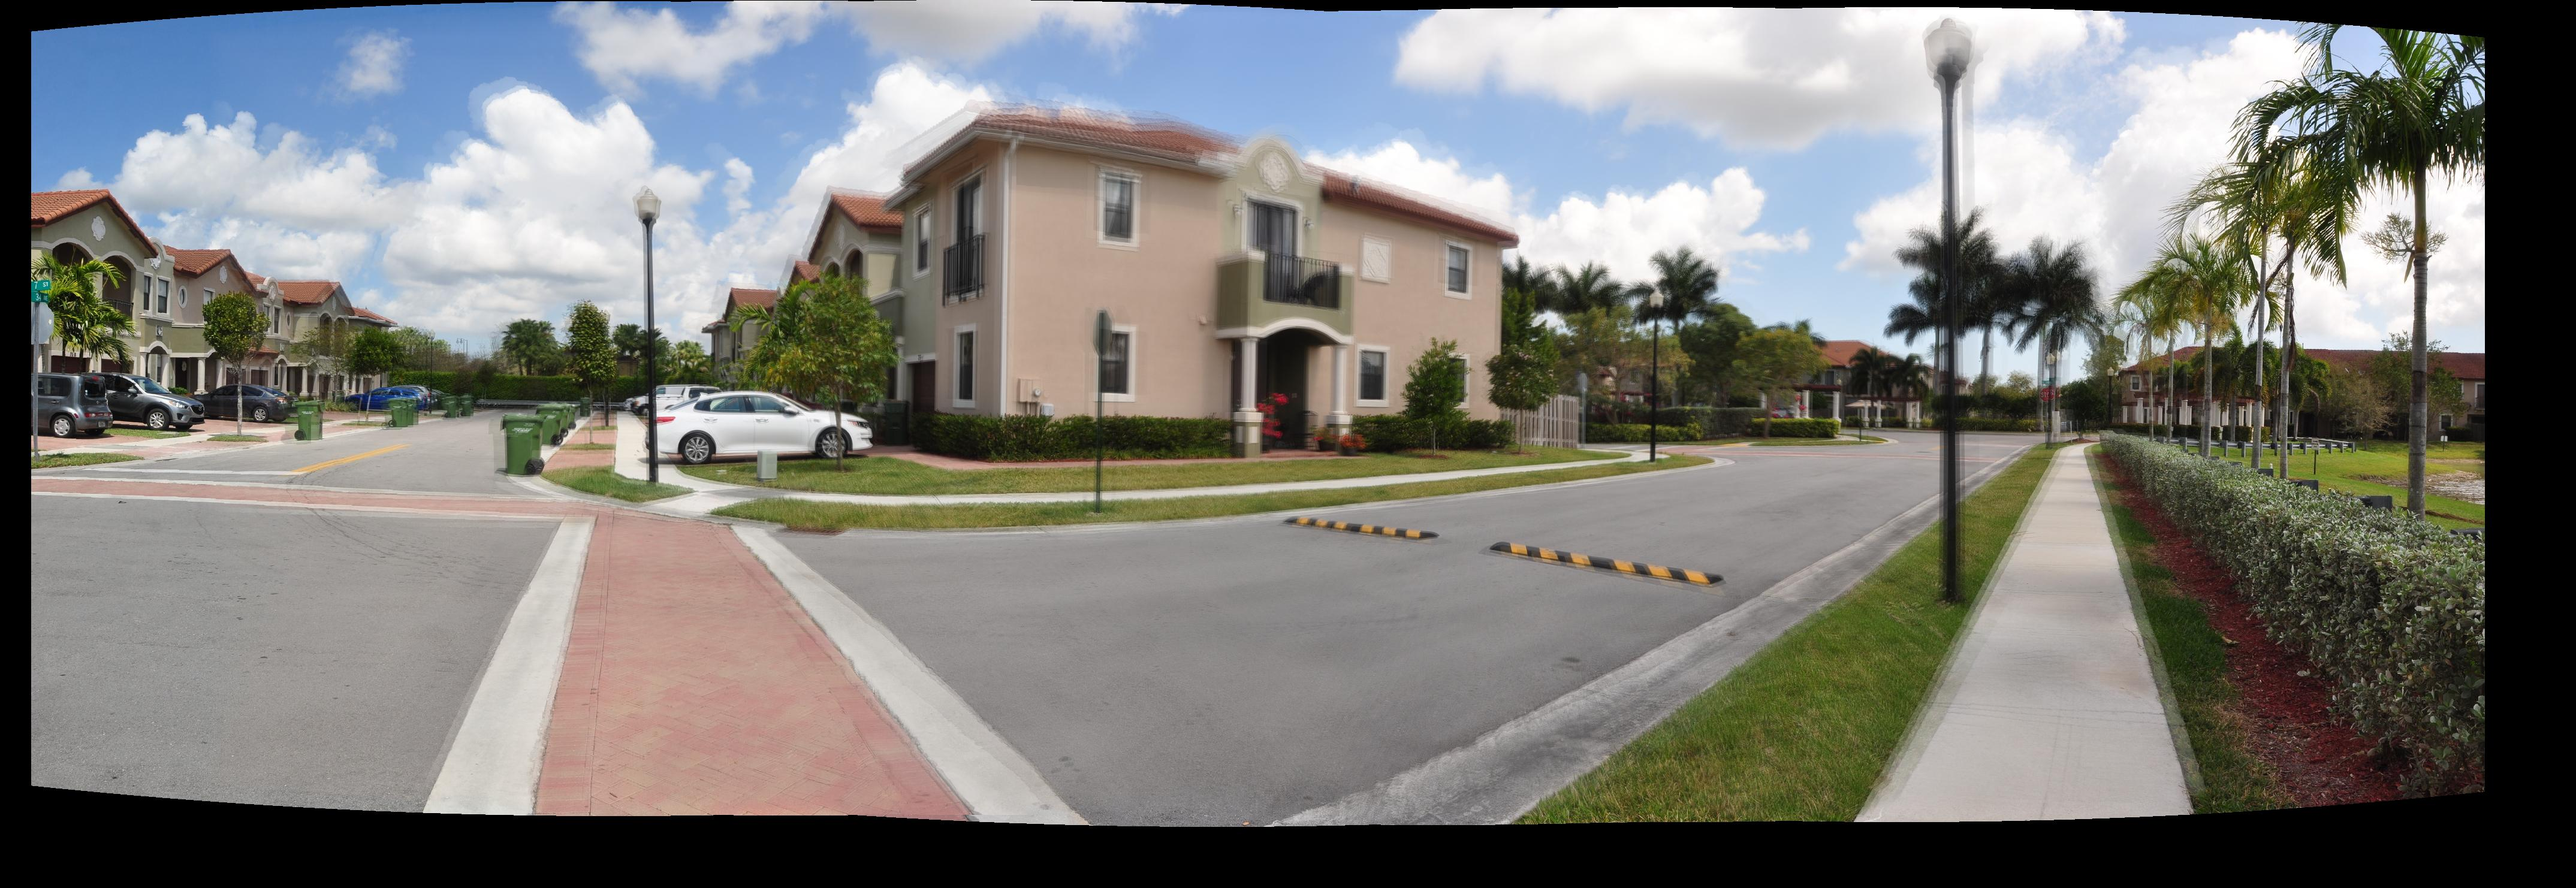
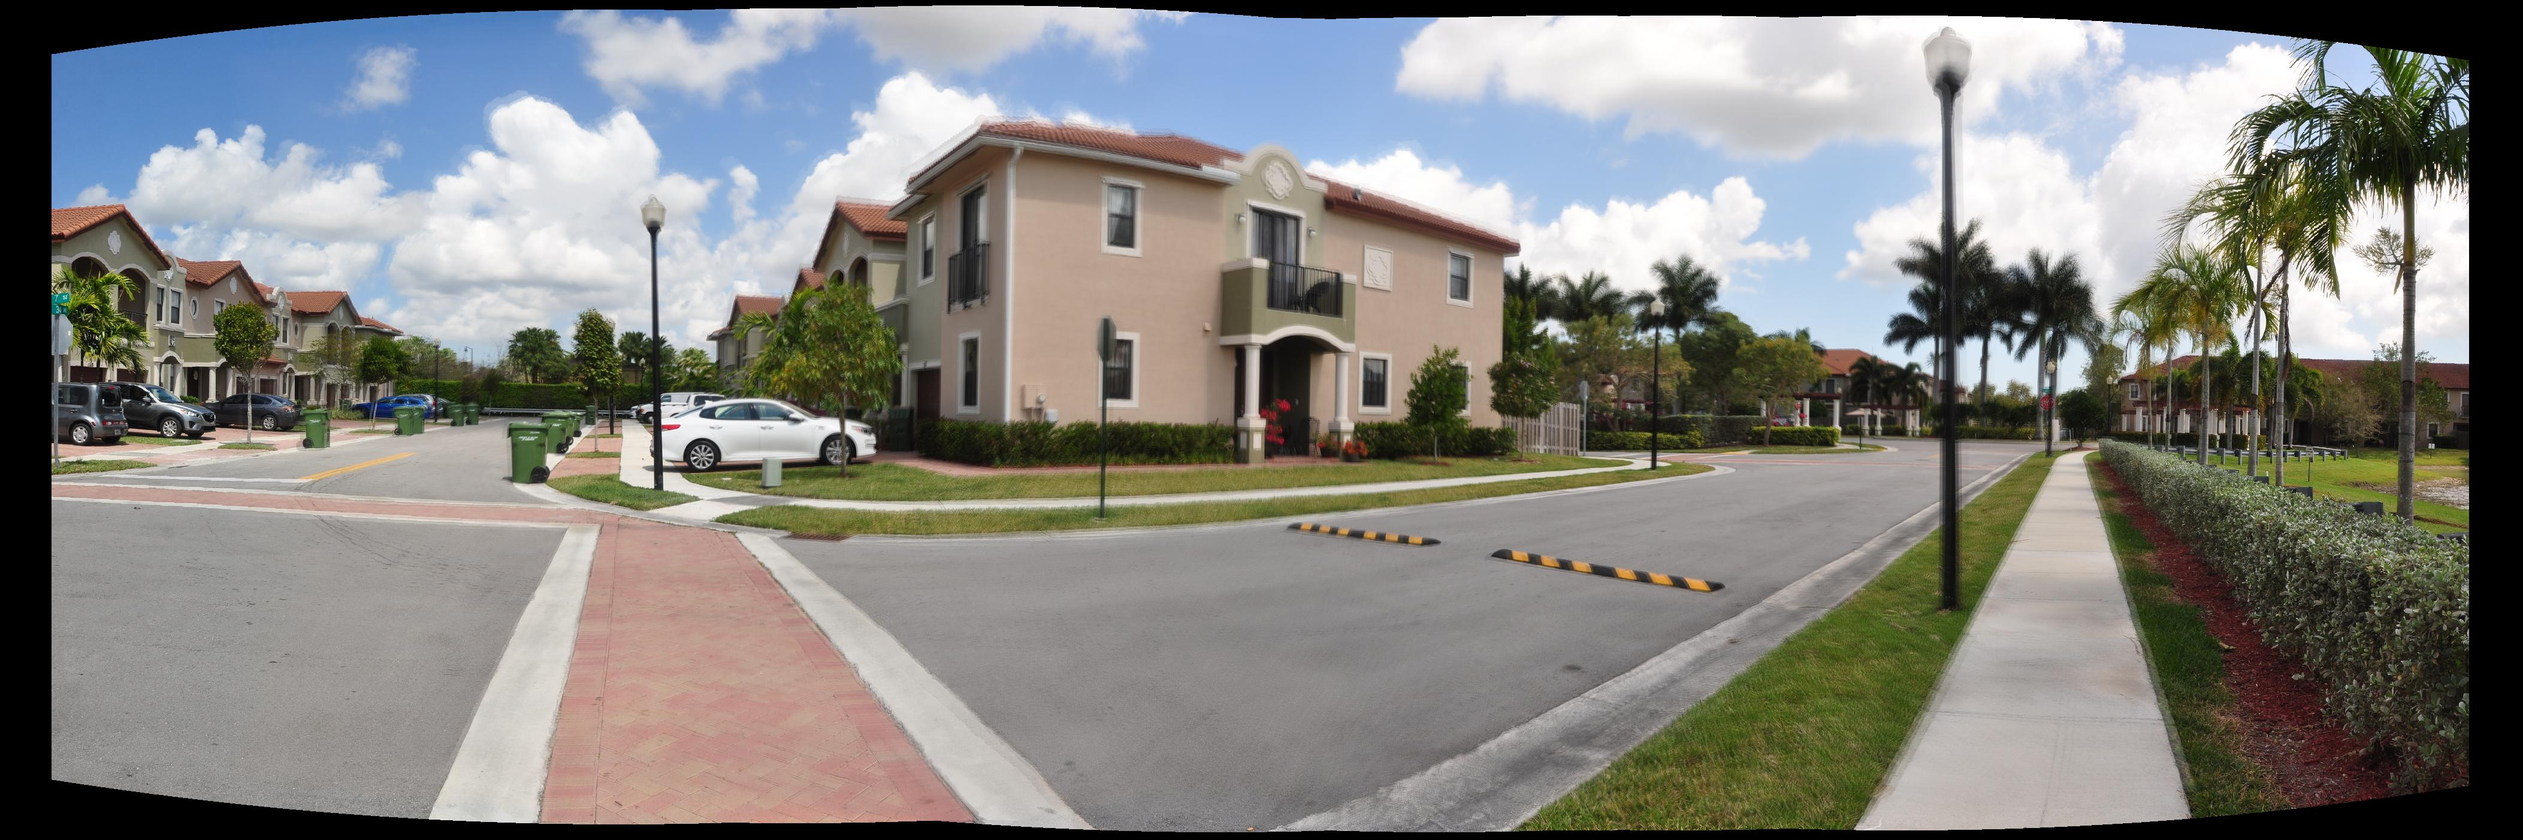
readme

diff --git a/main.m b/main.m
@@ -1,41 +1,51 @@
-clear all
-%% params
+function [panorama]=main(filename)
+    %% parse path
+    %             1       2unorder          3           4             5
+    datasets={'ucsb4','family_house','glacier4','yellowstone2','GrandCanyon1',...
+        'yellowstone5','yellowstone4','west_campus1','redrock','intersection',...
+    ...%     6              7               8unorder            9      10
+    'GrandCanyon2'};
+    % 11  
+    if isnumeric(filename)
+        which=filename;
+        path='imgs';
+    else
+        if strcmp(filename(end),'/')
+            filename=filename(1:end-1);
+        end
+        [path,dataset_name,~]=fileparts(filename);
+        disp(['path ',path,' dataset ',dataset_name])
+        
+        which=find(strcmp(datasets,dataset_name));
+    end
+    %% params
+    %which=8;
+    %       1   2  3    4     5   6    7    8    9    10   11
+    focus=[595,400,2000,1000,1000,1000,1000,1000,2000,2000,2000];
+    Full360=[0,0,0,0,0,0,0,0,0,0,0];
+    unordered=[0,1,0,0,0,0,0,1,0,0,0];
+    %%
+    full=Full360(which);
+    f=focus(which);
+    run('lib/vlfeat-0.9.20/toolbox/vl_setup');
+    disp(['creating panorama for ',datasets{which}]);
+    s=imageSet(fullfile(path,datasets{which}));
+    img=read(s,1);
+    imgs=zeros(size(img,1),size(img,2),size(img,3),s.Count,'like',img);
+    for i=1:s.Count
+        imgs(:,:,:,i)=read(s,i);
+    end
 
-which=8;
-path='imgs';
-%             1       2unorder          3           4             5
-datasets={'ucsb4','family_house','glacier4','yellowstone2','GrandCanyon1',...
-    'yellowstone5','yellowstone4','west_campus1','redrock','intersection',...
-...%     6              7               8unorder            9      10
-'GrandCanyon2'};
-% 11  
-%       1   2  3    4     5   6    7    8    9    10   11
-focus=[595,400,2000,1000,1000,1000,1000,1000,2000,2000,2000];
-Full360=[0,0,0,0,0,0,0,0,0,0,0];
-unordered=[0,1,0,0,0,0,0,1,0,0,0];
-%%
-full=Full360(which);
-f=focus(which);
-run('lib/vlfeat-0.9.20/toolbox/vl_setup');
-disp(['creating panorama for ',datasets{which}])
-s=imageSet(fullfile(path,datasets{which}));
-img=read(s,1);
-imgs=zeros(size(img,1),size(img,2),size(img,3),s.Count,'like',img);
-for i=1:s.Count
-    imgs(:,:,:,i)=read(s,i);
-end
 
+    if unordered(which)
+        t=cputime;
+        disp('ordering unordered images');
+        imgs=imorder(imgs);
+        disp([int2str(cputime-t),' sec']);
+    end
 
-if unordered(which)
-    t=cputime;
-    disp('ordering unordered images');
-    imgs=imorder(imgs);
-    disp([int2str(cputime-t),' sec']);
-end
-
-
-panorama=create( imgs, f, full);
-imwrite(panorama,['./results/',datasets{which},'.jpg']);
-if unordered(which)
-    imwrite(panorama,['./results/',datasets{which},'from unordered.jpg']);
-end
+    panorama=create( imgs, f, full);
+    imwrite(panorama,['./results/',datasets{which},'.jpg']);
+    if unordered(which)
+        imwrite(panorama,['./results/',datasets{which},'from unordered.jpg']);
+    end

diff --git a/imorder.m b/imorder.m
@@ -71,8 +71,7 @@ for i=2:nImgs
         failed=false;
         break
     end
-    
-	if failed==false
+    if failed==false
         sequence=[nextIdx(real_idx),sequence];
     else
         break

diff --git a/merge.m b/merge.m
@@ -17,7 +17,6 @@ for i=1:nChannels
     m(:,:,i)=mask;
 end
 mask=m;
-padding=1000;
 % image merging
 
 max_h=0;

diff --git a/README.md b/README.md
@@ -4,15 +4,32 @@ This is my panorama creator, images files are already in ./imgs
 ##### bonus  
 I implemented all of the elaborate features described in **BONUS** part.  
 - I'm able to handle 360 panorama.
-- Random sequences is ok.
+- Random sequence of images input is welcomed.
 - I use color blending and smoothing to make the image more continuous.  
-*details of my algorithms are shown below:*  
-##### getting features
-- [x] use SIFT features(using VLFeat library, professor allowed)  
-- [x] SURF features, (SIFT is better)  
-
+##### how to run  
+- If you want to see results directly, go to ./results folder
+- If you want to test all images sets with only one click,run RunAllDatasets.m.(This may run 10 more minutes, because I didn't resize large images. If I have more time, I can add this feature)  
+- If you want to specify the image folder, run main.m with path to images folder as argument(as described in assignment)  
+Note that, if you use the last way to run my code, the folder names should be as follows(I need to tune focus on each image set)  
+'ucsb4','family_house','glacier4','yellowstone2','GrandCanyon1','yellowstone5','yellowstone4','west_campus1','redrock','intersection','GrandCanyon2'  
+For example:  
+main('./imgs/ucsb4/');
+######details of my algorithms are shown below:   
 ##### 360 panorama
 - [x] mapping image to cylindrical coordinate
+
+##### recognize panorama(random inputs)
+I select two random sequence images set:family\_house, and west\_campus1  
+They are already shuffled. You can see them in imgs folder.  
+Or you can run shuffle.bash to shuffle them again.  
+As described in Brown's paper, I use N\_inlier>k\*N\_pairs+b to compute whether a pair of images match or not  
+k,b are const. Set to 5.9 and 0.22 respectively.  
+
+##### merging and blending  
+- [x] Alpha  
+- [ ] Pyramid  
+- [x] Noblend
+
 
 ##### transformation
 - [x] homography transformation.
@@ -26,15 +43,9 @@ I implemented all of the elaborate features described in **BONUS** part.
 - [x] end to end adjustment(comput shift and subtract shift/n to each image)  
 - [ ] bundle adjustment(difficult way)  
 
-##### merging and blending  
-- [x] Alpha  
-- [ ] Pyramid  
-- [x] Noblend
-
-##### recognize panorama(random inputs)
-As described in Brown's paper, I use N_inlier>k\*N_pairs+b to compute whether a pair of images match or not  
-k,b are const. Set to 5.9 and 0.22 respectively.  
-
+##### getting features
+- [x] use SIFT features(using VLFeat library, professor allowed)  
+- [x] SURF features, (SIFT is better)  
 
 
 
